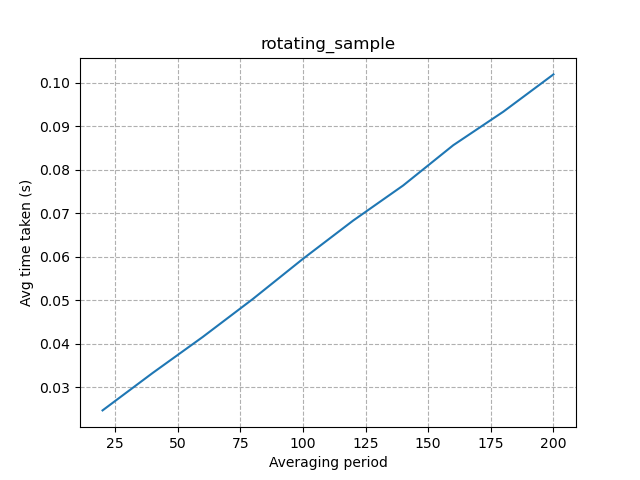
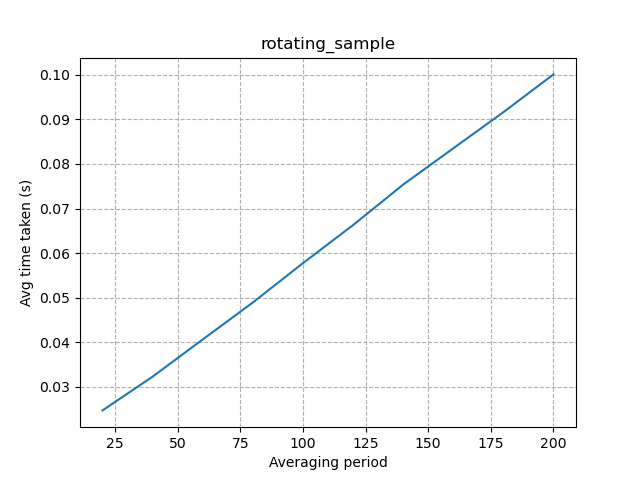
Adding push pop method

diff --git a/moving_average.py b/moving_average.py
@@ -7,7 +7,7 @@ import matplotlib.pyplot as plt
 from timer import time_me
 
 
-N_REPEATS = 10
+N_REPEATS = 1
 
 
 @time_me(N_REPEATS)
@@ -22,8 +22,24 @@ def simple(data: List[float], period: int):
 
 
 @time_me(N_REPEATS)
-def rotating_sample(data: List[float], period: int):
+def push_pop(data: List[float], period: int):
     '''Not slicing the original array each time - update with each subsequent value'''
+    sample = list(data[:period])
+    
+    results = []
+    for i in range(period, len(data)):
+        mean = sum(sample) / period
+        results.append(mean)
+
+        del sample[0]
+        sample.append(data[i])
+
+    return results
+
+
+@time_me(N_REPEATS)
+def rotating_sample(data: List[float], period: int):
+    '''Same as push and pop but updating a single array'''
     sample = data[:period]
     idx_sample = -1
     
@@ -71,6 +87,15 @@ class TestCases(unittest.TestCase):
         self.assertListEqual(simple(data, 3)[0], self.results_20_3)
         self.assertListEqual(simple(data, 5)[0], self.results_20_5)
 
+    def test_push_pop(self):
+        data = range(10)
+        self.assertListEqual(push_pop(data, 3)[0], self.results_10_3)
+        self.assertListEqual(push_pop(data, 5)[0], self.results_10_5)
+
+        data = range(20)
+        self.assertListEqual(push_pop(data, 3)[0], self.results_20_3)
+        self.assertListEqual(push_pop(data, 5)[0], self.results_20_5)
+
     def test_rotating_sample(self):
         data = range(10)
         self.assertListEqual(rotating_sample(list(data), 3)[0], self.results_10_3)
@@ -93,14 +118,14 @@ class TestCases(unittest.TestCase):
         data = [i for i in range(200_000)]
 
         results = []
-        for func in (simple, rotating_sample, updates):
+        for func in (simple, push_pop, rotating_sample, updates):
             for period in range(20, 201, 20):
                 _, time_taken = func(data, period)
                 results.append((func.__name__, period, time_taken))
         
         # plot results - altogether
         plt.figure()
-        for key in ('simple', 'rotating_sample', 'updates'):
+        for key in ('simple', 'push_pop', 'rotating_sample', 'updates'):
             x = [x[1] for x in results if x[0] == key]
             y = [x[2] for x in results if x[0] == key]
             plt.plot(x, y, label=key)
@@ -116,7 +141,7 @@ class TestCases(unittest.TestCase):
         plt.close('all')
 
         # plot results - individually
-        for key in ('updates', 'rotating_sample', 'simple'):
+        for key in ('simple', 'push_pop', 'rotating_sample', 'updates'):
             plt.figure()
             x = [x[1] for x in results if x[0] == key]
             y = [x[2] for x in results if x[0] == key]

diff --git a/README.md b/README.md
@@ -6,6 +6,10 @@ Testing out a couple of ways to calculate a simple moving average. Nothing compl
 
 Probably the most basic way I could think to do it. Take a slice of the previous N-values, calculate the sum and divide by the period.
 
+## Push & Pop
+
+Manually maintain a slice of the array as we loop through. Since we are only moving one element on & off the array at a time, it should be faster than taking a full period-length slice of the array at each step.
+
 ## Rotating Sample
 
 Keep a fixed-length list in memory. As we go through the array, we need to pop an element off the beginning and add one at the end. In effect, this can be done by overwriting a value in the k-th position in the fixed-length array.
@@ -16,7 +20,7 @@ When updating an average, if we know the value that is being removed and the one
 
 # Results
 
-Unsurprisingly, the `simple` approach turned out to be the slowest. The rotating sample approach was faster ,but it still demonstrates `O(N)` time complexity relative to the averaging period. The `updates` approach turned out to be the fastest, operating in `O(1)` constant time, independent of the averaging period.
+Unsurprisingly, the `simple` approach turned out to be the slowest. The push & pop and rotating sample approaches were faster, but it still demonstrates `O(N)` time complexity relative to the averaging period. Surprisingly, there was little performance benefit between these two techniques (I expected the rotating sample to be faster as it halves the number of array operations). The `updates` approach turned out to be the fastest, operating in `O(1)` constant time, independent of the averaging period.
 
 ![Results for all techniques](results.png)
 
